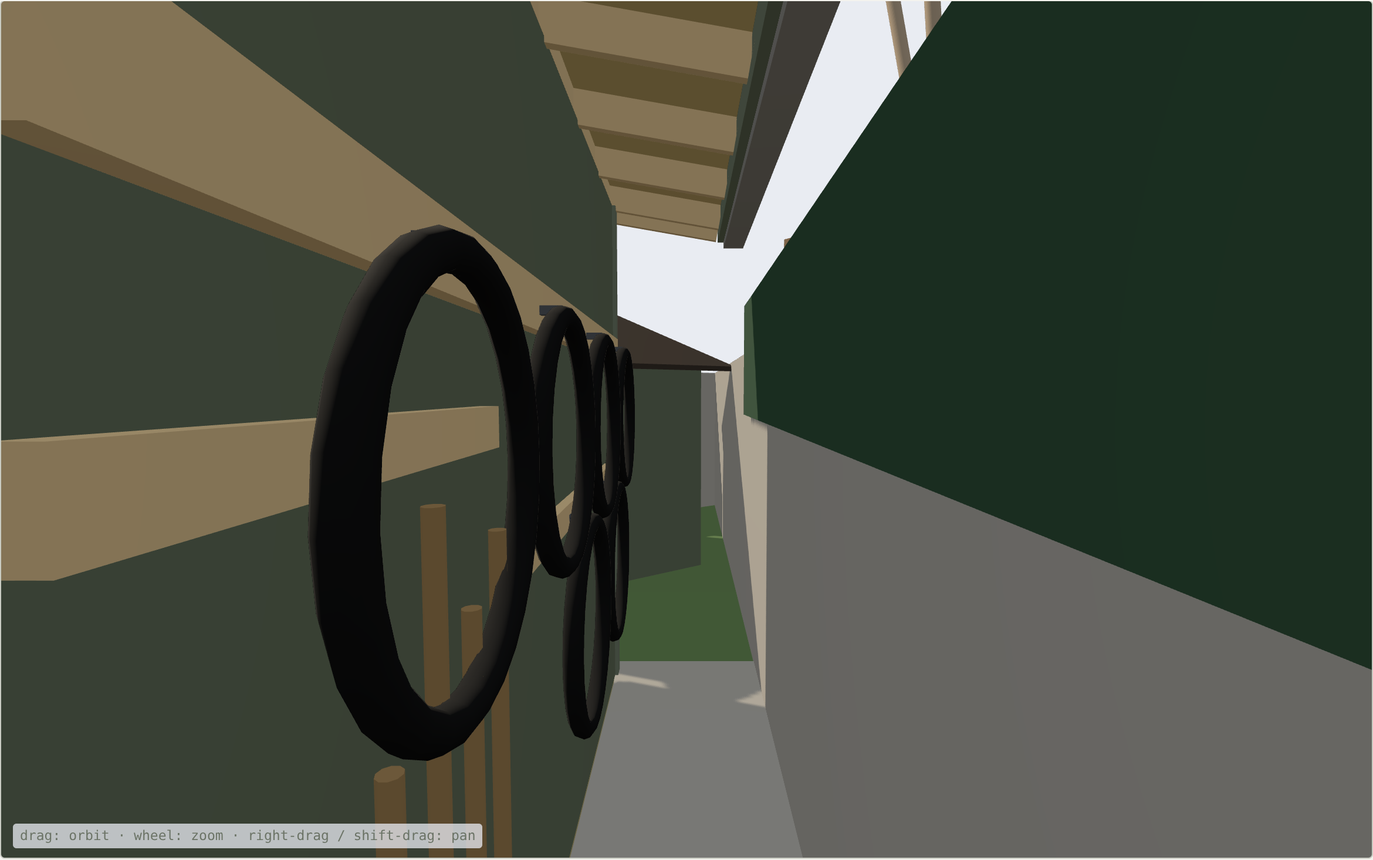
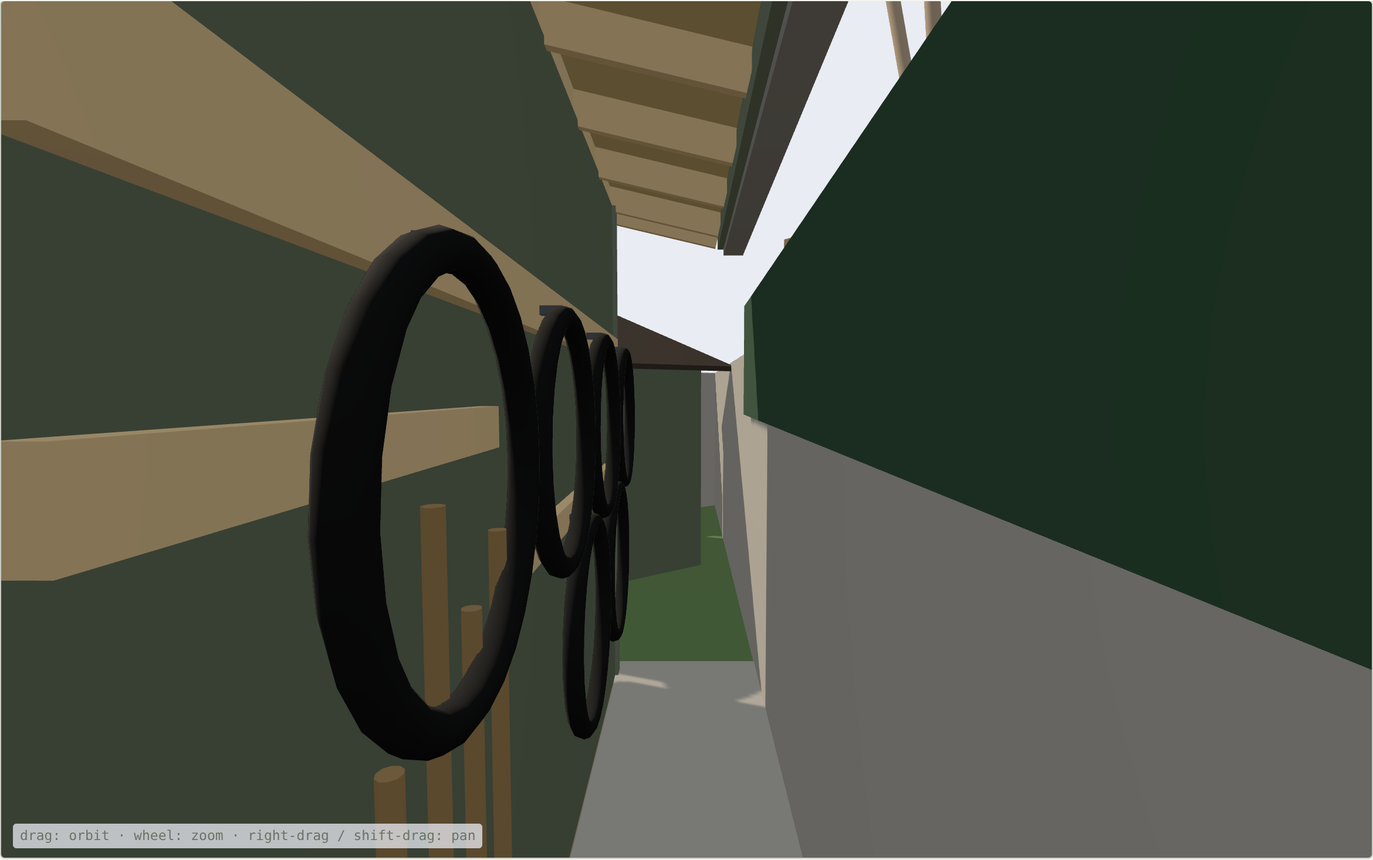
Wesley Ave bike shop: cut to 6 ft deep to give lawn back
Drawings and 3D pages now show 12' x 6': nearest corner 8.3 ft from
the house instead of 6.7, roof 2.8:12 on 10 ft rafters, the bench
moved to the yard wall beside the door, the stand working outside.
The write-up records what the shallower box costs inside. The
SketchUp model is still the 8 ft version.

Claude-Session: https://claude.ai/code/session_01R9UvhtAqJY5gdMeoqmJDyn

Changed region(s): [[0.4368, 0.0307, 0.5927, 0.307], [0.4056, 0.0, 0.4991, 0.0614], [0.5927, 0.0, 0.6239, 0.0921]]

diff --git a/docs/wesley-ave/bike-shed-site.html b/docs/wesley-ave/bike-shed-site.html
@@ -94,8 +94,8 @@
 <main>
   <header>
     <div class="eyebrow">2926 Wesley Ave, Charlotte &middot; drawn from the 2012 Lineberger plat</div>
-    <h1>Wesley Ave bike shed: a 12' x 8' bike shop, no permit</h1>
-    <p class="lede">The biggest box North Carolina lets you build without a building permit is 12' in every direction, height included. This page puts a 12' x 8' version of it in the wedge below the Matheson Ave retaining wall and lays it out as a small bike shop: six XL 29ers hung on the back wall (2,000 mm long, 780 mm bars), a parts tower, a short bench with a shelf over it, a transom over the door, and a tower repair stand that works in the aisle with the doors open. The roof pitches 2:12 toward the wall and runs 26" past the back wall, so the 3' strip behind the shed becomes covered storage for wheelsets and long tools. Move the sliders to match your tape.</p>
+    <h1>Wesley Ave bike shed: a 12' x 6' bike shop, no permit</h1>
+    <p class="lede">The biggest box North Carolina lets you build without a building permit is 12' in every direction, height included. This page puts a 12' x 6' version of it, cut from 8' deep on 10 November to give lawn back, in the wedge below the Matheson Ave retaining wall and lays it out as a small bike shop: six XL 29ers hung on the back wall (2,000 mm long, 780 mm bars), a parts tower, a short bench by the door, a shelf for boxes, a transom over the door, and a tower repair stand that parks inside and works out in front of the open doors. At 6' deep it stores and it has a bench, but there is no room to work on a bike inside. The roof pitches 2.8:12 toward the wall and runs 26" past the back wall, so the 3' strip behind the shed becomes covered storage for wheelsets and long tools. Move the sliders to match your tape.</p>
   </header>
 
   <figure>
@@ -112,7 +112,7 @@
       <label>Length along the wall
         <input type="range" id="lenFt" min="10" max="12" step="1" value="12"> <output id="lenFtOut">12 ft</output></label>
       <label>Depth toward the yard
-        <input type="range" id="depFt" min="7" max="12" step="1" value="8"> <output id="depFtOut">8 ft</output></label>
+        <input type="range" id="depFt" min="6" max="12" step="1" value="6"> <output id="depFtOut">6 ft</output></label>
     </div>
     <div class="sheet"><svg id="yard" role="img" aria-label="Enlarged plan of the back yard: the house wall, the existing shed, the retaining wall with the planted bank behind it, and the proposed bike shop along the wall, with the distances between them"></svg></div>
     <div class="readouts" id="readouts"></div>
@@ -126,21 +126,21 @@
   </figure>
 
   <figure>
-    <h2>Shop plan, 12' x 8'</h2>
-    <div class="sheet"><svg id="plan" role="img" aria-label="Plan of the 12 by 8 foot bike shop: six hung bikes on the back wall, a parts tower, a bench with a shelf over it, a repair stand with a bike in it, the door on the yard side, and behind the back wall the covered strip with hung wheels under the roof cantilever"></svg></div>
-    <figcaption>Interior 137" x 89". Six Steadyracks at 16" centres on the back wall, 20" in from the left; the bikes hang low and high alternately (dark and pale), 780 mm bars at 1,120 mm from the wall. The spare 20" at the right end of the back wall takes a 24"-deep parts tower, 96" tall. A 24" x 36" bench, 40" high for a 6'2" mechanic, sits on the left end wall in front of the bikes' bar line, with a 30" x 36" shelf at 100" over it (dashed) for boxes; pegboard above the bench and on the yard wall both sides of the door; the two-step stool for the shelf lives under the bench. The tower stand parks in the right front corner and works in the aisle, dashed, with an 80" bike clamped parallel to the wall and the doors open. Door centred on the yard wall, two leaves swinging out, the 60" x 20" transom above it. Behind the back wall, under the 26" roof cantilever, the covered strip: a 2x6 hook rail at 72" with four wheels and a 2x4 at 46" with two more, hung flat to the siding (the 46" height keeps each lower wheel an inch clear of its neighbours), and a clip rail at 60" for long tools at the house end; the roof edge stops 10" short of the retaining wall and carries the gutter. Aisle in front of the bikes: 43" straight out, 67" swung. Hung straight out, a low bay's bar sits 65" above the floor, face height at 6'2", so the bikes park swung on their pivots and only come straight out to load and unload.</figcaption>
+    <h2>Shop plan, 12' x 6'</h2>
+    <div class="sheet"><svg id="plan" role="img" aria-label="Plan of the 12 by 6 foot bike shop: six hung bikes on the back wall, a parts tower, a bench beside the door, a shelf on the end wall, a parked repair stand, the door on the yard side, and behind the back wall the covered strip with hung wheels under the roof cantilever"></svg></div>
+    <figcaption>Interior 137" x 65". Six Steadyracks at 16" centres on the back wall, 20" in from the left; the bikes hang low and high alternately (dark and pale), 780 mm bars at 1,120 mm from the wall. The spare 20" at the right end of the back wall takes a 24"-deep parts tower, 96" tall. At 6' deep the bench can no longer stand on the end wall, where bay 1's saddle and rear wheel would hit it, so it moves to the yard wall left of the door: 36" x 20", 40" high for a 6'2" mechanic, with pegboard above it. A 30" x 36" shelf at 100" (dashed) sits on the left end wall for boxes, with the two-step stool under the bench. The tower stand parks in the right front corner and comes out through the doors to work: with the bikes hung there is no room to clamp an 80" bike inside. Door centred on the yard wall, two leaves swinging out, the 60" x 20" transom above it. Behind the back wall, under the 26" roof cantilever, the covered strip: a 2x6 hook rail at 72" with four wheels and a 2x4 at 46" with two more, hung flat to the siding (the 46" height keeps each lower wheel an inch clear of its neighbours), and a clip rail at 60" for long tools at the house end; the roof edge stops 10" short of the retaining wall and carries the gutter. Aisle in front of the bikes: 19" straight out, 41" swung. So a bike is loaded with its neighbours swung aside, and every bike parks swung on its pivot. Hung straight out, a low bay's bar sits 65" above the floor, face height at 6'2".</figcaption>
   </figure>
 
   <figure>
     <h2>Back wall, seen from inside</h2>
     <div class="sheet"><svg id="elev" role="img" aria-label="Elevation of the back wall, 106 inches to the plates, with six bikes hanging at alternating heights from two ledgers and the parts tower at the right"></svg></div>
-    <figcaption>Wall plates top out at 106" (8'10"): with the roof flipped, the rack wall is the low side and the rafters rise 2:12 from here to 122" at the door wall. Two 2x8 ledgers at 70" and 82" carry the racks. Low bays have the tyre top at 82" and the bar at 65"; high bays are 12" up, their brackets ending 3" under the plates. The parts tower at the right is 20" x 24" x 96" with five shelves. Bay 3 is the e-bike. Nothing hangs over the bikes any more; the wheelsets live outside on the hook rails on the other side of this wall.</figcaption>
+    <figcaption>Wall plates top out at 106" (8'10"): with the roof flipped, the rack wall is the low side and the rafters rise 2.8:12 from here to 122" at the door wall. Two 2x8 ledgers at 70" and 82" carry the racks. Low bays have the tyre top at 82" and the bar at 65"; high bays are 12" up, their brackets ending 3" under the plates. The parts tower at the right is 20" x 24" x 96" with five shelves. Bay 3 is the e-bike. Nothing hangs over the bikes any more; the wheelsets live outside on the hook rails on the other side of this wall.</figcaption>
   </figure>
 
   <figure>
     <h2>Section through the door, looking along the wall</h2>
-    <div class="sheet"><svg id="sect" role="img" aria-label="Cross-section of the 8 foot deep shop: the roof pitched toward the retaining wall and carried over the strip behind, a hung bike in profile, the bench and shelf beyond, the door with its transom, the figure, and the wall with the covered strip"></svg></div>
-    <figcaption>Front (door) wall 122", back (rack) wall 106", roof at 2:12 toward the retaining wall: 2x6 x 12' rafters at 24" seated on both plates, a 12" eave in front and a 26" cantilever behind that stops 10" short of the wall face, with a 5" gutter on that edge and the downspout at the house end carried to the turf. At 2:12 an exposed-fastener panel needs butyl tape at every side and end lap and stitch screws at 12", over a synthetic underlayment. The transom above the door is a fixed 60" x 20" unit in a 62" x 23.5" rough opening between the door header and a second double 2x6 header under the plates. The hung bike projects 1,120 mm; beyond the section plane, dashed, the bench and its 30" shelf at 100". Under the cantilever the covered strip holds wheels on hooks at 72" and 46" and long tools on clips, and the gravel pad runs to the wall. Floor 9.75" above the pad (2x6 joists on three skids); roof top about 141" above the pad at the front, 3" under the 12' limit. The retaining wall is 36" behind the shed as a placeholder for the setback still to confirm. The figure is MK at 6'2": the low bay's bar line at 65" is drawn across to him, face height, which is why the bikes park swung on their pivots; the shelf at 100" is above his standing reach, so a two-step stool lives under the bench.</figcaption>
+    <div class="sheet"><svg id="sect" role="img" aria-label="Cross-section of the 6 foot deep shop: the roof pitched toward the retaining wall and carried over the strip behind, a hung bike in profile, the bench and shelf beyond, the door with its transom, the figure, and the wall with the covered strip"></svg></div>
+    <figcaption>Front (door) wall 122", back (rack) wall 106", roof at 2.8:12 toward the retaining wall (the same 16" rise over a shorter run): 2x6 x 10' rafters at 24" seated on both plates, a 12" eave in front and a 26" cantilever behind that stops 10" short of the wall face, with a 5" gutter on that edge and the downspout at the house end carried to the turf. At 2.8:12, still under 3:12, an exposed-fastener panel needs butyl tape at every side and end lap and stitch screws at 12", over a synthetic underlayment. The transom above the door is a fixed 60" x 20" unit in a 62" x 23.5" rough opening between the door header and a second double 2x6 header under the plates. The hung bike projects 1,120 mm; beyond the section plane, dashed, the bench by the door and the 30" shelf at 100" on the end wall. Under the cantilever the covered strip holds wheels on hooks at 72" and 46" and long tools on clips, and the gravel pad runs to the wall. Floor 9.75" above the pad (2x6 joists on three skids); roof top about 142" above the pad at the front, 2" under the 12' limit. The retaining wall is 36" behind the shed as a placeholder for the setback still to confirm. The figure is MK at 6'2": the low bay's bar line at 65" is drawn across to him, face height, which is why the bikes park swung on their pivots; the shelf at 100" is above his standing reach, so a two-step stool lives under the bench.</figcaption>
   </figure>
 
   <section>
@@ -149,11 +149,11 @@
       <tr><th>Zone</th><th>Size</th><th>Holds</th></tr>
       <tr><td>Back wall racks</td><td class="n">112" of wall; 44" out to load, parked swung about 22" out</td><td>six XL bikes, one an e-bike, on Steadyracks; low-bay bars at 65" are face height at 6'2", so park them swung</td></tr>
       <tr><td>Covered strip behind</td><td class="n">36" x 12', 26" of it under the roof</td><td>four wheels on hooks at 72" and two at 46", hung flat to the siding; long tools on a clip rail at 60"; gravel to the wall</td></tr>
-      <tr><td>Shelf over the bench</td><td class="n">30" x 36" at 100", 15" clear</td><td>boxes of parts; above a 6'2" reach, so the two-step stool</td></tr>
+      <tr><td>Shelf on the left end wall</td><td class="n">30" x 36" at 100", 12" clear at its back edge</td><td>boxes of parts; above a 6'2" reach, so the two-step stool</td></tr>
       <tr><td>Parts tower</td><td class="n">20" x 24" x 96"</td><td>five shelves of boxes</td></tr>
-      <tr><td>Bench and pegboard</td><td class="n">36" x 24" at 40" high, pegboard above to 90"</td><td>tools, small parts, a vice; the stool underneath</td></tr>
-      <tr><td>Stand</td><td class="n">parks in a 30" circle, works in the aisle</td><td>tower repair stand with an 80" bike clamped parallel to the wall, doors open for light and room</td></tr>
-      <tr><td>Aisle</td><td class="n">43" from bars to the yard wall, 67" with the bikes swung</td><td>rolling bikes in and out; the stand's working room</td></tr>
+      <tr><td>Bench and pegboard</td><td class="n">36" x 20" at 40" high on the yard wall, pegboard above to 90"</td><td>tools, small parts, a vice; the stool underneath</td></tr>
+      <tr><td>Stand</td><td class="n">parks in a 30" circle, works outside</td><td>tower repair stand; it comes out in front of the open doors to work, there is no room to clamp an 80" bike inside</td></tr>
+      <tr><td>Aisle</td><td class="n">19" from bars to the yard wall, 41" with the bikes swung</td><td>rolling bikes in and out with the neighbours swung aside; standing at the bench</td></tr>
     </table>
   </section>
 
@@ -175,7 +175,7 @@
     <ul>
       <li>Tape the lawn from the house wall to the old shed's front (drawn 17.5 ft; the plat scales to 16.4 ft) and set the first slider.</li>
       <li>Tape from the old shed's front-right corner square across to the retaining wall (drawn 8.9 ft) and from its back-right corner (drawn 1 ft); set the second slider until the wedge readout matches.</li>
-      <li>Stake the shop's four corners: back wall 3 ft off the wall face, near end 9 ft along the wall from the old shed's back corner. Walk it before buying lumber: the house-end front corner lands about 6.7 ft from the house wall.</li>
+      <li>Stake the shop's four corners: back wall 3 ft off the wall face, near end 9 ft along the wall from the old shed's back corner. Walk it before buying lumber: the house-end front corner lands about 8.3 ft from the house wall.</li>
       <li>The Matheson lot line is 11 to 13 ft behind the wall, so the shop sits about 15 ft inside it. Ask Charlotte Planning to confirm that no street-side rule reaches that far. The 12' rule is the state building code; zoning is separate.</li>
       <li>The roof's back edge sits under the jasmine and the crepe myrtles on the bank: plan on a gutter guard, trim the vine back along the shop, and expect to prune branches over the roof. The gutter can be cleaned from the bank.</li>
     </ul>
@@ -396,7 +396,7 @@
   const LOW = [true, false, true, false, true, false];
   const CR = i => (LOW[i] ? 82 : 94);
   const clsFor = (i, outline) => (i === 2 ? 'ebike' : LOW[i] ? 'bike' : 'bike-high') + (outline ? '-o' : '');
-  const OUT = 144, IN = 137, OUTD = 96, IND = 89, HB = 106, HF = 122, SHELF_Z = 100, SHELF_D = 30;
+  const OUT = 144, IN = 137, OUTD = 72, IND = 65, HB = 106, HF = 122, SHELF_Z = 100, SHELF_D = 30;
   const BACK_OH = 26, FRONT_OH = 12, WALL_GAP = 36, T = 0.625, RAIL_HI = 72, RAIL_LO = 46;
 
   /* ---------------- Shop plan ---------------- */
@@ -440,36 +440,31 @@
     });
     r(OUT - 3.5 - 20.5, 5.0, 20.5, 24, 'lumber-f');
     textAt(svg, x(OUT - 3.5 - 10.25), y(14), 'parts', 't-s'); textAt(svg, x(OUT - 3.5 - 10.25), y(18.5), 'tower', 't-s'); textAt(svg, x(OUT - 3.5 - 10.25), y(23), '20 x 24 x 96', 't-s');
-    // bench on the left end wall with the shelf over it (dashed), pegboard
-    el(svg, 'rect', { x: x(3.5), y: y(56.5), width: SHELF_D * K, height: 36 * K, 'class': 'swing' });
-    r(3.5, 56.5, 24, 36, 'lumber-f');
-    textAt(svg, x(15.5), y(68), 'bench', 't-s'); textAt(svg, x(15.5), y(72.5), '24 x 36', 't-s'); textAt(svg, x(15.5), y(77), '40 high', 't-s'); textAt(svg, x(15.5), y(83.5), 'shelf above', 't-s'); textAt(svg, x(15.5), y(88), 'at 100 in', 't-s');
-    r(3.5, 56.5, 1, 36, 'rack');
+    // shelf on the left end wall (dashed), bench on the yard wall left of the door, pegboard
+    el(svg, 'rect', { x: x(3.5), y: y(OUTD - 39.5), width: SHELF_D * K, height: 36 * K, 'class': 'swing' });
+    r(3.5, OUTD - 23.5, 36, 20, 'lumber-f');
+    textAt(svg, x(21.5), y(OUTD - 14), 'bench 36 x 20', 't-s'); textAt(svg, x(21.5), y(OUTD - 9.5), '40 high', 't-s');
+    textAt(svg, x(11.5), y(OUTD - 34.5), 'shelf', 't-s'); textAt(svg, x(11.5), y(OUTD - 30), 'at 100', 't-s');
+    r(3.5, OUTD - 39.5, 1, 36, 'rack');
     r(3.5, OUTD - 4.5, DOOR0 - 7.5, 1, 'rack'); r(DOOR1 + 4, OUTD - 4.5, OUT - 3.5 - DOOR1 - 8, 1, 'rack');
     textAt(svg, x(24), y(OUTD - 1.0), 'pegboard', 't-s'); textAt(svg, x(OUT - 20), y(OUTD - 1.0), 'pegboard', 't-s');
-    // repair stand: parked in the right front corner, working position dashed in the aisle
+    // repair stand: parked in the right front corner; it works outside the doors
     el(svg, 'circle', { cx: x(OUT - 22), cy: y(OUTD - 22), r: 15 * K, 'class': 'swing' });
     el(svg, 'circle', { cx: x(OUT - 22), cy: y(OUTD - 22), r: 1.5 * K, 'class': 'rack' });
-    textAt(svg, x(OUT - 22), y(OUTD - 40), 'stand parked', 't-s');
-    const wy = 72, wx0 = 44;
-    el(svg, 'circle', { cx: x(wx0 + 40), cy: y(wy), r: 1.5 * K, 'class': 'swing' });
-    el(svg, 'rect', { x: x(wx0), y: y(wy - BIKE.tyre / 2), width: BIKE.len * K, height: BIKE.tyre * K, 'class': 'swing' });
-    el(svg, 'rect', { x: x(wx0 + 16), y: y(wy - BIKE.bar / 2), width: 1.2 * K, height: BIKE.bar * K, 'class': 'swing' });
-    el(svg, 'rect', { x: x(wx0 + 33), y: y(wy - BIKE.pedals / 2), width: 3 * K, height: BIKE.pedals * K, 'class': 'swing' });
-    el(svg, 'rect', { x: x(wx0 + 58), y: y(wy - 2.5), width: 10 * K, height: 5 * K, 'class': 'swing' });
-    textAt(svg, x(wx0 + 40), y(wy + 18.5), 'stand working in the aisle, doors open: 80 in bike clamped at 52 in', 't-s');
+    textAt(svg, x(OUT - 22), y(OUTD - 15), 'stand', 't-s'); textAt(svg, x(OUT - 22), y(OUTD - 10.5), 'parked', 't-s');
+    textAt(svg, x(OUT - 18), y(OUTD + 20), 'the stand works', 't-s'); textAt(svg, x(OUT - 18), y(OUTD + 24.5), 'out here, doors open', 't-s');
     // dimensions
-    dimLine(svg, x(3.5 + 36), y(53.5), x(3.5 + 52), y(53.5), '16 in centres', 'dim', 't-s', -11);
-    dimLine(svg, x(OUT + 16), y(3.5), x(OUT + 16), y(OUTD - 3.5), '89 in interior', 'dim', 't', 8);
+    dimLine(svg, x(3.5 + 52), y(53.5), x(3.5 + 68), y(53.5), '16 in centres', 'dim', 't-s', -11);
+    dimLine(svg, x(OUT + 16), y(3.5), x(OUT + 16), y(OUTD - 3.5), IND + ' in interior', 'dim', 't', 8);
     dimLine(svg, x(OUT + 6), y(5.25), x(OUT + 6), y(5.25 + BIKE.barH), '44.1 in (1,120 mm)', 'dim-new', 't-new', 8);
-    dimLine(svg, x(OUT + 6), y(5.25 + BIKE.barH), x(OUT + 6), y(OUTD - 3.5), '43 in clear', 'dim', 't', 8);
+    dimLine(svg, x(OUT + 6), y(5.25 + BIKE.barH), x(OUT + 6), y(OUTD - 3.5), '19 in clear', 'dim', 't', 8);
     dimLine(svg, x(87.5 - BIKE.bar / 2), y(5.25 + BIKE.barH + 4), x(87.5 + BIKE.bar / 2), y(5.25 + BIKE.barH + 4), '780 mm bar', 'dim', 't-s', -11);
     dimLine(svg, x(DOOR0), y(OUTD + 36), x(DOOR1), y(OUTD + 36), 'door RO 62 in, two 30.75 in leaves; transom 60 x 20 in above', 'dim', 't', -7);
     dimLine(svg, x(3.5), y(OUTD + 46), x(OUT - 3.5), y(OUTD + 46), '137 in interior', 'dim', 't', 6);
     dimLine(svg, x(-18), y(-WALL_GAP), x(-18), y(-T), '36 in gap', 'dim-new', 't-new', -8);
     textAt(svg, x(72), y(OUTD + 54), 'yard side', 't-s');
-    textAt(svg, x(OUT + 28), y(46), 'bays 1, 3, 5 low; 2, 4, 6 high; 3 is the e-bike', 't-s', 'middle', -90);
-    textAt(svg, x(OUT + 38), y(46), 'roof 2:12 toward the wall; 26 in cantilever over the strip behind', 't-s', 'middle', -90);
+    textAt(svg, x(OUT + 28), y(OUTD / 2), 'bays 1, 3, 5 low; 2, 4, 6 high; 3 is the e-bike', 't-s', 'middle', -90);
+    textAt(svg, x(OUT + 38), y(OUTD / 2), 'roof 2.8:12 toward the wall; 26 in cantilever behind', 't-s', 'middle', -90);
   })();
 
   /* ---------------- Back wall elevation ---------------- */
@@ -487,7 +482,7 @@
     r(-3.5, HB, IN + 7, 5.3, 'lumber');
     [0, 24, 48, 72, 96, 120, 142.5].forEach(s => r(s - 3.5, HB, 1.5, 5.3, 'lumber-f'));
     r(-3.5, HB + 5.3, IN + 7, 0.45, 'lumber-f');
-    textAt(svg, x(IN / 2), z(HB + 8.5), 'top plates 106 in (8 ft 10 in); 2x6 rafters at 24 in seated on them, rising 2:12 to 122 in at the door wall', 't-s');
+    textAt(svg, x(IN / 2), z(HB + 8.5), 'top plates 106 in (8 ft 10 in); 2x6 rafters at 24 in seated on them, rising 2.8:12 to 122 in at the door wall', 't-s');
     BAYS.forEach((c, i) => {
       const zc = CR(i), zb = zc - BIKE.len, cls = clsFor(i, false);
       r(c - 1.75, zc - 14, 3.5, 16, 'rack'); r(c - 3, zc - 9.5, 1, 1, 'rack'); r(c + 2, zc - 9.5, 1, 1, 'rack');
@@ -529,7 +524,7 @@
     el(svg, 'path', { d: `M ${y(-52)} ${z(88)} Q ${y(-44)} ${z(97)} ${y(-35)} ${z(88)} L ${y(-33.5)} ${z(60)} Q ${y(-35.5)} ${z(52)} ${y(-36)} ${z(60)} L ${y(-36)} ${z(84)} L ${y(-46)} ${z(84)} Z`, 'class': 'vine' });
     textAt(svg, y(-64), z(104), 'planted bank rising to', 't-s', 'start'); textAt(svg, y(-64), z(99.5), 'the sidewalk fence,', 't-s', 'start'); textAt(svg, y(-64), z(95), '11 ft back', 't-s', 'start');
     textAt(svg, y(-41), z(40), 'retaining wall 84 in', 't-s', 'middle', -90);
-    [0, 46.25, OUTD - 3.5].forEach(s => r(s, 0, 3.5, 3.5, 'lumber-f'));
+    [0, (OUTD - 3.5) / 2, OUTD - 3.5].forEach(s => r(s, 0, 3.5, 3.5, 'lumber-f'));
     r(0, 3.5, OUTD, 5.5, 'lumber-f'); r(0, 9, OUTD, 0.75, 'lumber');
     // back (rack) wall, 106 in, siding outside
     r(0, F0, 3.5, HB, 'lumber-f'); r(-T, 3.5, T, F0 + HB - 3.5, 'lumber');
@@ -550,7 +545,7 @@
     const deck = [[d0, vt(d0)], [d1, vt(d1)], [d1, vt(d1) + 1.25], [d0, vt(d0) + 1.25]];
     el(svg, 'polygon', { points: deck.map(p => y(p[0]) + ',' + z(F0 + p[1])).join(' '), 'class': 'lumber-f' });
     r(-BACK_OH - 6.5, F0 + vu(-BACK_OH) - 1.5, 5, 4.5, 'concrete');
-    textAt(svg, y(46), z(F0 + vu(46) + 2.6), '2x6 x 12 ft rafters at 24 in, 2:12 toward the wall, screw-down metal with sealed laps', 't-s', 'middle', -Math.atan(Sl) * 180 / Math.PI);
+    textAt(svg, y(29), z(F0 + vu(29) + 2.6), '2x6 x 10 ft rafters at 24 in, 2.8:12, sealed-lap metal', 't-s', 'middle', -Math.atan(Sl) * 180 / Math.PI);
     // racks: ledgers at 70 and 82, a low rack and its arm, the hung bikes
     r(3.5, F0 + 70, 1.5, 7.25, 'lumber-f'); r(3.5, F0 + 82, 1.5, 7.25, 'lumber-f');
     r(5, F0 + 68, 0.25, 16, 'rack'); r(5.25, F0 + 72.5, 12, 1, 'rack');
@@ -570,10 +565,9 @@
     bike(CR(0) - BIKE.len, 'bike-o', false);
     bike(CR(1) - BIKE.len, 'bike-high-o', true);
     // the bench and the shelf over it are beyond the section plane: dashed
-    el(svg, 'rect', { x: y(56.5), y: z(F0 + 40), width: 36 * K, height: 40 * K, 'class': 'swing' });
-    el(svg, 'rect', { x: y(56.5), y: z(F0 + SHELF_Z + 0.75), width: 36 * K, height: 4.25 * K, 'class': 'swing' });
-    el(svg, 'rect', { x: y(60), y: z(F0 + SHELF_Z + 0.75 + 9), width: 14 * K, height: 9 * K, 'class': 'swing' });
-    textAt(svg, y(60), z(F0 + 93), 'bench shelf at 100 in (beyond)', 't-s');
+    el(svg, 'rect', { x: y(OUTD - 23.5), y: z(F0 + 40), width: 20 * K, height: 40 * K, 'class': 'swing' });
+    el(svg, 'rect', { x: y(OUTD - 39.5), y: z(F0 + SHELF_Z + 0.75), width: 36 * K, height: 4.25 * K, 'class': 'swing' });
+    el(svg, 'rect', { x: y(OUTD - 36), y: z(F0 + SHELF_Z + 0.75 + 9), width: 14 * K, height: 9 * K, 'class': 'swing' });
     // the covered strip: rails on the outside of the back wall, a wheel from each, a long tool beyond (dashed)
     r(-T - 1.5, F0 + RAIL_HI - 2.75, 1.5, 5.5, 'lumber-f'); r(-T - 1.5, F0 + RAIL_LO - 2, 1.5, 3.5, 'lumber-f'); r(-T - 1.5, F0 + 58, 1.5, 3.5, 'lumber-f');
     r(-T - 5.3, F0 + RAIL_HI - BIKE.od, 2.2, BIKE.od, 'bike'); r(-T - 5.3, F0 + RAIL_LO - BIKE.od, 2.2, BIKE.od, 'bike-high');
@@ -581,25 +575,24 @@
     textAt(svg, y(-16), z(131), 'covered strip', 't-new'); textAt(svg, y(-16), z(126.5), 'wheels, long tools', 't-s');
     // the figure, 6 ft 2 in, and the low-bay bar line
     const pg = el(svg, 'g', { 'class': 'person' });
-    const py = 72;
+    const py = OUTD - 12;
     el(pg, 'circle', { cx: y(py), cy: z(F0 + 69.5), r: 4.5 * K });
     el(pg, 'line', { x1: y(py), y1: z(F0 + 65), x2: y(py), y2: z(F0 + 35) });
     el(pg, 'line', { x1: y(py), y1: z(F0 + 35), x2: y(py - 4), y2: z(F0) }); el(pg, 'line', { x1: y(py), y1: z(F0 + 35), x2: y(py + 4), y2: z(F0) });
     el(pg, 'line', { x1: y(py), y1: z(F0 + 60), x2: y(py - 8), y2: z(F0 + 41) }); el(pg, 'line', { x1: y(py), y1: z(F0 + 60), x2: y(py + 8), y2: z(F0 + 41) });
     textAt(svg, y(py), z(F0 + 77), "6'2\" (MK)", 't-s');
     const barZ = CR(0) - BIKE.len + 61.95;
-    el(svg, 'line', { x1: y(5.25 + BIKE.barH), y1: z(F0 + barZ), x2: y(py - 6), y2: z(F0 + barZ), 'class': 'swing', style: 'stroke:var(--new)' });
-    textAt(svg, y(49.6), z(F0 + barZ + 1.3), '65 in bar', 't-new', 'start'); textAt(svg, y(49.6), z(F0 + barZ - 3.7), 'face height', 't-new', 'start');
+    el(svg, 'line', { x1: y(5.25 + BIKE.barH), y1: z(F0 + barZ), x2: y(py - 4.5), y2: z(F0 + barZ), 'class': 'swing', style: 'stroke:var(--new)' });
     // dimensions
     dimLine(svg, y(-17), z(F0), y(-17), z(F0 + HB), '106 in (8 ft 10 in)', 'dim', 't', 9);
     dimLine(svg, y(-9), z(F0 + CR(0) - BIKE.len), y(-9), z(F0 + CR(0)), '2,000 mm (78.7 in)', 'dim-new', 't-new', 8);
     dimLine(svg, y(OUTD + 6), z(F0), y(OUTD + 6), z(F0 + HF), '122 in (10 ft 2 in)', 'dim', 't', -9);
-    dimLine(svg, y(3.5), z(F0 + 97), y(5.25 + BIKE.barH), z(F0 + 97), '44.1 in (1,120 mm)', 'dim-new', 't-new', -7);
-    dimLine(svg, y(5.25 + BIKE.barH), z(F0 + 97), y(OUTD - 3.5), z(F0 + 97), '43 in clear', 'dim', 't', -7);
+    dimLine(svg, y(3.5), z(F0 + 90), y(5.25 + BIKE.barH), z(F0 + 90), '44.1 in (1,120 mm)', 'dim-new', 't-new', -7);
+    dimLine(svg, y(5.25 + BIKE.barH), z(F0 + 90), y(OUTD - 3.5), z(F0 + 90), '19 in', 'dim', 't', -7);
     dimLine(svg, y(-WALL_GAP), z(12), y(0), z(12), '36 in gap', 'dim-new', 't-new', 7);
     dimLine(svg, y(-50), z(0), y(-50), z(84), '84 in', 'dim', 't-s', 7);
     dimLine(svg, y(OUTD + 16), z(0), y(OUTD + 16), z(F0), '9.75 in', 'dim', 't-s', -7);
-    dimLine(svg, y(OUTD + 21), z(0), y(OUTD + 21), z(F0 + vt(d1) + 1.25), 'roof top 141 in, under the 144 in limit', 'dim', 't-s', -7);
+    dimLine(svg, y(OUTD + 21), z(0), y(OUTD + 21), z(F0 + vt(d1) + 1.25), 'roof top ' + Math.round(F0 + vt(d1) + 1.25) + ' in, under the 144 in limit', 'dim', 't-s', -7);
     textAt(svg, y(OUTD / 2), z(-9), 'gravel pad, carried to the wall; yard side to the right', 't-s');
   })();
 })();

diff --git a/docs/wesley-ave/bike-shop-3d.html b/docs/wesley-ave/bike-shop-3d.html
@@ -39,9 +39,9 @@
 
 <main>
   <header>
-    <div class="eyebrow">2926 Wesley Ave, Charlotte &middot; 12' x 8' bike shop, no permit</div>
+    <div class="eyebrow">2926 Wesley Ave, Charlotte &middot; 12' x 6' bike shop, no permit</div>
     <h1>Wesley Ave bike shop in 3D</h1>
-    <p class="lede">The shop as it would stand along the retaining wall behind the house: tall door wall facing the yard with a transom, the roof pitched 2:12 toward the wall and carried 26" past the back wall to cover the strip behind it, six XL 29ers on Steadyracks, the bench, parts tower and stand inside, wheels and long tools hung under the overhang outside. The site was corrected on 10 November from two photos taken on the third-floor deck: the wall is inside the lot with a planted bank and the sidewalk fence behind it, the old shed's back corner nearly touches the wall, and the lawn between the house and the old shed is about 17.5 ft deep, so the shop's nearest corner is about 6.7 ft from the house. Drag to orbit, scroll to zoom, right-drag or shift-drag to pan. Untick the skin to see the framing.</p>
+    <p class="lede">The shop as it would stand along the retaining wall behind the house: tall door wall facing the yard with a transom, the roof pitched 2.8:12 toward the wall and carried 26" past the back wall to cover the strip behind it, six XL 29ers on Steadyracks, the bench by the door, the parts tower and the parked stand inside, wheels and long tools hung under the overhang outside. The site was corrected on 10 November from two photos taken on the third-floor deck: the wall is inside the lot with a planted bank and the sidewalk fence behind it, the old shed's back corner nearly touches the wall, and the lawn between the house and the old shed is about 17.5 ft deep, so the shop was cut from 8 ft to 6 ft deep, which puts its nearest corner about 8.3 ft from the house. Drag to orbit, scroll to zoom, right-drag or shift-drag to pan. Untick the skin to see the framing.</p>
   </header>
 
   <div class="bar" role="group" aria-label="What is shown">
@@ -72,13 +72,13 @@
   </div>
 
   <div class="facts">
-    <div><b>144" x 96"</b><span>outside the studs; interior 137" x 89"; 96 sq ft of floor, which is what the 12' rule counts</span></div>
-    <div><b>122" / 106"</b><span>door wall and rack wall to the top of plates; 2:12 toward the retaining wall, sealed-lap screw-down metal</span></div>
+    <div><b>144" x 72"</b><span>outside the studs; interior 137" x 65"; 72 sq ft of floor, which is what the 12' rule counts</span></div>
+    <div><b>122" / 106"</b><span>door wall and rack wall to the top of plates; 2.8:12 toward the retaining wall, sealed-lap screw-down metal</span></div>
     <div><b>26" cantilever</b><span>roof carried past the back wall, edge 10" off the wall face; gutter there, downspout to the yard</span></div>
     <div><b>6 bays at 16"</b><span>Steadyracks, cradle tops 82" low and 94" high; bay 3 is the e-bike</span></div>
     <div><b>60" x 20" transom</b><span>fixed glazing above the door, facing the yard</span></div>
-    <div><b>141" roof top</b><span>highest point above the pad, at the front lip of the metal; 3" under the 12' line</span></div>
-    <div><b>6.7 ft to the house</b><span>from the shop's nearest corner, with the lawn 17.5 ft deep and the shop 3 ft off the wall; tape both before building</span></div>
+    <div><b>142" roof top</b><span>highest point above the pad, at the front lip of the metal; 2" under the 12' line</span></div>
+    <div><b>8.3 ft to the house</b><span>from the shop's nearest corner, with the lawn 17.5 ft deep and the shop 3 ft off the wall; tape both before building</span></div>
   </div>
   <p class="lede">Drawings, dimensions and the write-up: <a href="bike-shed-site.html">bike-shed-site.html</a> and <a href="BIKE-SHED.md">BIKE-SHED.md</a> in the same folder.</p>
 </main>
@@ -97,7 +97,7 @@
   THREE.Object3D.DEFAULT_UP.set(0, 0, 1);
 
   // ---------- constants (inches; design frame: X along the wall toward the house, Y toward the yard, Z up from the pad) ----------
-  const L = 144, D = 96, Z0 = 9.75, HB = 106, HF = 122;        // back (rack) wall low, front (door) wall tall
+  const L = 144, D = 72, Z0 = 9.75, HB = 106, HF = 122;        // back (rack) wall low, front (door) wall tall
   const S = (HF - HB) / (D - 3.5), SL = Math.sqrt(1 + S * S), RAF_V = 5.5 * SL;
   const vU = u => HB + S * (u - 3.5), vT = u => vU(u) + RAF_V;   // rafter underside and top, relative to Z0
   const BACK_OH = 26, FRONT_OH = 12;                              // roof past the back wall, past the front wall
@@ -179,14 +179,14 @@
   box(gWalls, mat.spf, DOOR0 - 1.5, D - 3.5, Z0 + 113.5, DOOR1 - DOOR0 + 3, 3.5, 5.5);                    // transom header
   box(gWalls, mat.spf, 0, D - 3.5, Z0 + HF - 3, L, 3.5, 3);
   // end walls, raked, tallest at the front
-  const endYs = [3.5].concat([0, 1, 2, 3, 4].map(k => 15.25 + 16 * k), [D - 5]);
+  const endYs = [3.5].concat([0, 1, 2, 3, 4].map(k => 15.25 + 16 * k).filter(y => y < D - 7), [D - 5]);
   const tilt = Math.atan(S);
   [0, L - 3.5].forEach(x0 => {
     box(gWalls, mat.spf, x0, 3.5, Z0, 3.5, D - 7, 1.5);
     endYs.forEach(y => box(gWalls, mat.spf, x0, y, Z0 + 1.5, 3.5, 1.5, vU(y + 0.75) - 3 * SL - 1.5));
-    slabX(gWalls, mat.spf, x0 + 1.75, 48, Z0 + vU(48) - 1.5 * SL, 3.5, 89 * SL, 3, tilt);
+    slabX(gWalls, mat.spf, x0 + 1.75, D / 2, Z0 + vU(D / 2) - 1.5 * SL, 3.5, (D - 7) * SL, 3, tilt);
   });
-  // rafters: 2x6 x 12', 26" past the back wall, 12" past the front
+  // rafters: 2x6 x 10', 26" past the back wall, 12" past the front
   const rafXs = [0, 24, 48, 72, 96, 120, L - 1.5];
   const uMid = (D + FRONT_OH - BACK_OH) / 2, run = D + FRONT_OH + BACK_OH;
   rafXs.concat([-12, L + 10.5]).forEach(x => slabX(gRoofF, mat.spf, x + 0.75, uMid, Z0 + vU(uMid) + RAF_V / 2, 1.5, run * SL, 5.5, tilt));
@@ -281,24 +281,24 @@
     bikePivots.push(piv);
   });
 
-  // fit-out: shelf over the bench, parts tower, bench with stool, pegboard, stand, figure
-  const SH = Z0 + 100;
-  box(gFit, mat.spf, 3.5, 56.5, SH - 3.5, 1.5, 36, 3.5); box(gFit, mat.spf, 32, 56.5, SH - 3.5, 1.5, 36, 3.5);
-  box(gFit, mat.spf, 5, 58, SH - 3.5, 27, 1.5, 3.5); box(gFit, mat.spf, 5, 89.5, SH - 3.5, 27, 1.5, 3.5);
-  box(gFit, mat.ply, 3.5, 56.5, SH, 30, 36, 0.75);
-  box(gFit, mat.white, 6, 60, SH + 0.75, 12, 14, 9); box(gFit, mat.white, 20, 62, SH + 0.75, 10, 24, 8);
+  // fit-out: shelf on the left end wall, parts tower, bench on the yard wall left of the door with the stool, pegboard, stand, figure
+  const SH = Z0 + 100, YS = D - 39.5, YB = D - 23.5;
+  box(gFit, mat.spf, 3.5, YS, SH - 3.5, 1.5, 36, 3.5); box(gFit, mat.spf, 32, YS, SH - 3.5, 1.5, 36, 3.5);
+  box(gFit, mat.spf, 5, YS + 1.5, SH - 3.5, 27, 1.5, 3.5); box(gFit, mat.spf, 5, YS + 33, SH - 3.5, 27, 1.5, 3.5);
+  box(gFit, mat.ply, 3.5, YS, SH, 30, 36, 0.75);
+  box(gFit, mat.white, 6, YS + 3.5, SH + 0.75, 12, 14, 9); box(gFit, mat.white, 20, YS + 5.5, SH + 0.75, 10, 24, 8);
   const TX = 120;
   box(gFit, mat.ply, TX, 5, Z0, 0.75, 24, 96); box(gFit, mat.ply, TX + 19.75, 5, Z0, 0.75, 24, 96);
   [0, 19, 38, 57, 76, 95.25].forEach(z => box(gFit, mat.ply, TX + 0.75, 5, Z0 + z, 19, 24, 0.75));
   [[TX + 2, 19.75], [TX + 10, 38.75], [TX + 1.5, 57.75], [TX + 9, 0.75], [TX + 3, 76.75]].forEach(([x, z]) => box(gFit, mat.white, x, 7, Z0 + z, 8, 13, 10));
-  [[3.5, 56.5], [24, 56.5], [3.5, 89], [24, 89]].forEach(([x, y]) => box(gFit, mat.spf, x, y, Z0, 3.5, 3.5, 38.5));
-  box(gFit, mat.ply, 3.5, 56.5, Z0 + 38.5, 24, 36, 1.5); box(gFit, mat.ply, 7, 60, Z0 + 12, 17, 29, 0.75);
-  box(gFit, mat.stoolw, 8, 62, Z0, 14, 18, 18); box(gFit, mat.stoolw, 8, 71, Z0, 14, 9, 9);
-  box(gFit, mat.peg, 3.5, 56.5, Z0 + 42, 0.25, 36, 48); box(gFit, mat.peg, 3.5, D - 3.75, Z0 + 40, 33.5, 0.25, 50); box(gFit, mat.peg, 107, D - 3.75, Z0 + 40, 33.5, 0.25, 50);
+  [[3.5, YB], [36, YB], [3.5, YB + 16.5], [36, YB + 16.5]].forEach(([x, y]) => box(gFit, mat.spf, x, y, Z0, 3.5, 3.5, 38.5));
+  box(gFit, mat.ply, 3.5, YB, Z0 + 38.5, 36, 20, 1.5);
+  box(gFit, mat.stoolw, 9, YB + 2, Z0, 16, 14, 18); box(gFit, mat.stoolw, 25, YB + 2, Z0, 9, 14, 9);
+  box(gFit, mat.peg, 3.5, YS, Z0 + 42, 0.25, 36, 48); box(gFit, mat.peg, 3.5, D - 3.75, Z0 + 40, 33.5, 0.25, 50); box(gFit, mat.peg, 107, D - 3.75, Z0 + 40, 33.5, 0.25, 50);
   const base = new THREE.Mesh(new THREE.CylinderGeometry(15, 15, 1, 28), mat.steel); base.rotation.x = Math.PI / 2; base.position.set(122, D - 22, Z0 + 0.5); base.castShadow = true; gFit.add(base);
   cyl(gFit, mat.steel, [122, D - 22, Z0 + 1], [122, D - 22, Z0 + 52], 1.0);
   box(gFit, mat.steel, 121, D - 22, Z0 + 50, 2, 14, 2); box(gFit, mat.rack, 120.5, D - 10, Z0 + 49, 3, 3, 4);
-  const person = new THREE.Group(); person.position.set(40, 70, Z0); person.rotation.z = Math.PI; gFit.add(person);
+  const person = new THREE.Group(); person.position.set(50, D - 12, Z0); person.rotation.z = Math.PI; gFit.add(person);
   const head = new THREE.Mesh(new THREE.SphereGeometry(4.5, 16, 12), mat.skin); head.position.set(0, 0, 69.5); head.castShadow = true; person.add(head);
   box(person, mat.shirt, -8, -4.5, 40, 16, 9, 25); box(person, mat.shirt, -11, -3.5, 40, 3, 7, 24); box(person, mat.shirt, 8, -3.5, 40, 3, 7, 24);
   box(person, mat.pants, -7.5, -4, 0, 6.5, 8, 40); box(person, mat.pants, 1, -4, 0, 6.5, 8, 40); cyl(person, mat.skin, [0, 0, 65], [0, 0, 67], 2);
@@ -462,13 +462,13 @@
 
   // ---------- presets and toggles (site frame: x toward the old shed, y toward the yard) ----------
   const presets = {
-    hero: { az: 0.83, el: 0.48, r: 431, t: [72, 48, 60], fov: 45 },                // from over the west fence
+    hero: { az: 0.83, el: 0.48, r: 431, t: [72, 36, 60], fov: 45 },                // from over the west fence
     balcony: { az: 2.17, el: 0.995, r: 358, t: [120, 0, 0], fov: 85 },             // where the deck photos were taken, 25 ft up, wide lens
     corner: { az: 0.339, el: 0.03, r: 181, t: [-20, 130, 62], fov: 65 },           // on the lawn by the old shed, looking at the gap to the house
-    eye: { az: 1.527, el: 0.0, r: 182, t: [72, 48, 70], fov: 72 },                 // back against the house wall
-    inside: { az: 1.496, el: -0.02, r: 80, t: [60, 8, 68], fov: 80, doors: true },
+    eye: { az: 1.527, el: 0.0, r: 182, t: [72, 36, 70], fov: 72 },                 // back against the house wall
+    inside: { az: 1.496, el: 0.03, r: 104, t: [60, 8, 68], fov: 80, doors: true },
     behind: { az: 3.1416, el: 0.06, r: 175, t: [165, -18, 62], fov: 68 },
-    framing: { az: 0.83, el: 0.48, r: 431, t: [72, 48, 60], fov: 45, skin: false, roof: false },
+    framing: { az: 0.83, el: 0.48, r: 431, t: [72, 36, 60], fov: 45, skin: false, roof: false },
     plan: { az: 1.571, el: 1.5, r: 760, t: [60, 70, 0], fov: 40 },
   };
   const tSkin = document.getElementById('tSkin'), tRoof = document.getElementById('tRoof'), tBikes = document.getElementById('tBikes'),

diff --git a/docs/wesley-ave/BIKE-SHED.md b/docs/wesley-ave/BIKE-SHED.md
@@ -4,6 +4,37 @@
 SketchUp model he can build from. This is MK's Charlotte house, not 146 Mick Road, so nothing
 here touches the HomePlan app or its plans; the photos and plat are in [photos/](photos/).
 
+## Update, 10 November, later: the shop cut to 6' deep
+
+With the yard half as deep as first drawn, MK asked for the shop to go from 8' to 6' deep to get
+lawn back. The drawings page and the 3D page now show 12' x 6'. The SketchUp model is still the
+8' version and has not been rebuilt.
+
+| Item | 12' x 8' | 12' x 6' |
+|---|---|---|
+| Outside the studs / interior | 144" x 96" / 137" x 89" | 144" x 72" / 137" x 65" |
+| Floor area | 96 sq ft | 72 sq ft |
+| Shop's nearest corner to the house (17.5' lawn, 3' strip) | 6.7' | 8.3' |
+| Aisle, bars to the yard wall: bikes straight out / swung | 43" / 67" | 19" / 41" |
+| Roof | 2.08:12, 2x6 x 12' rafters | 2.8:12 (the same 16" rise), 2x6 x 10' rafters |
+| Roof top above the pad | 141" | 142", 2" under the 12' limit |
+| Bench | 24" x 36" on the left end wall | 36" x 20" on the yard wall, left of the door |
+| Shelf at 100" | over the bench | on the left end wall, 12" clear at its back edge |
+| Repair stand | works in the aisle | parks inside, works out in front of the open doors |
+
+What 6' costs, plainly: it stops being a shop you can work in. Six bikes, the parts tower, the
+bench, the shelf and the parked stand all still fit, and the covered strip behind is unchanged.
+But a bike hung straight out leaves 19" to the door wall, so a bike is loaded with its neighbours
+swung aside, the bench has standing room only when the bikes near it are swung, and an 80" bike
+cannot be clamped in the stand inside. The bench had to leave the end wall because bay 1's saddle
+and rear wheel would hit it. A 7' depth is the middle: 7.5' to the house and a 31" aisle.
+
+Unchanged: both wall heights (122" door wall, 106" rack wall), the door and transom, the racks,
+the 26" cantilever and gutter, the covered strip. Still under 3:12, so the sealed laps stay.
+Framing changes: nine rafters from 10' stock instead of 12', floor joists 69" instead of 93",
+skids at 0, 34.25" and 68.5", six studs in each end wall instead of seven, and the floor,
+roof deck and metal shrink by a quarter.
+
 ## Update, 10 November: the deck photos correct the site
 
 MK sent two photos taken from the third-floor deck
@@ -421,7 +452,7 @@ west-south-west. Stills: [from over the west fence](bike-shop-3d-hero.png),
 
 ## The SketchUp model
 
-**Flipped-roof version (current):** `wesley-bike-shop-12x8-flipped.skp`, saved 10 November 2026
+**Flipped-roof version, still 8' deep (the 6' depth above is not modelled yet):** `wesley-bike-shop-12x8-flipped.skp`, saved 10 November 2026
 through the Trimble SketchUp connector, 178 solid parts plus the label group: floor, the 122" door
 wall with the door and transom framing, the 106" rack wall, raked end walls, nine 2x6 x 12'
 rafters with the 26" cantilever over the strip, blocking, deck, metal, the gutter and downspout,
